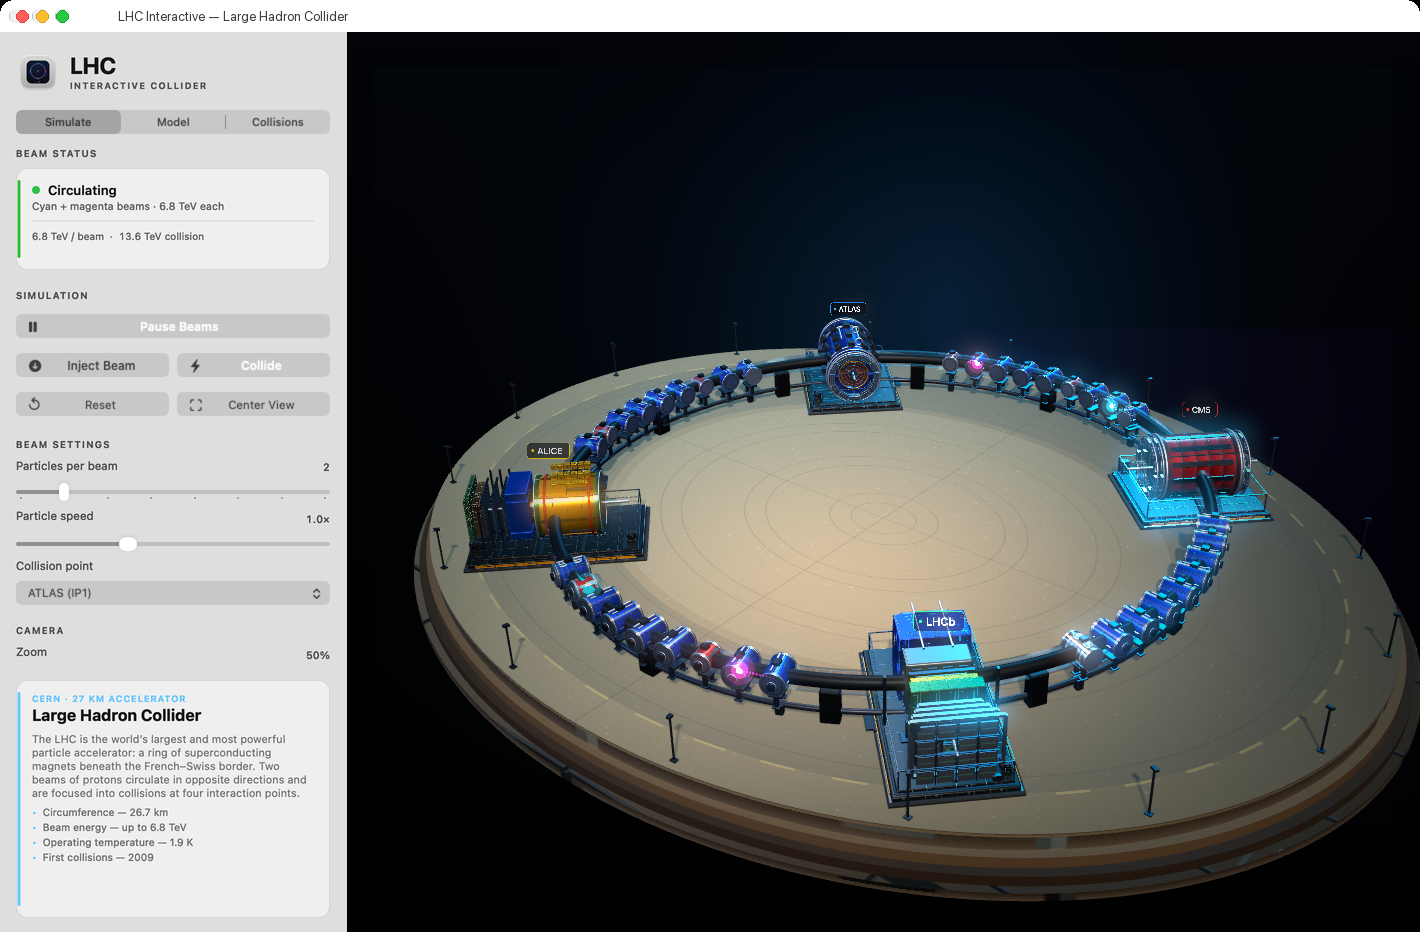
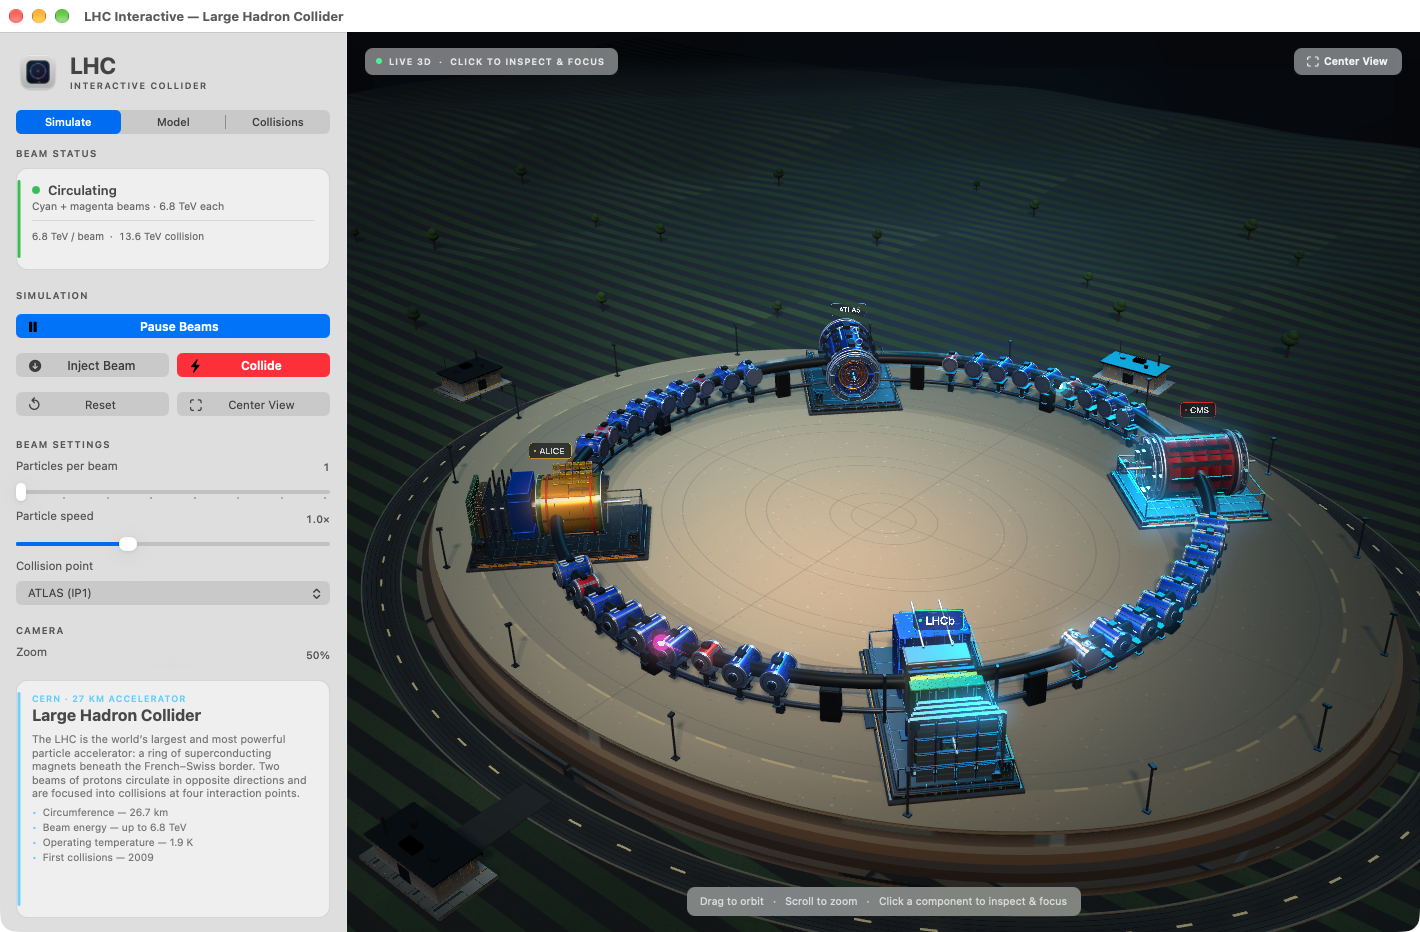
Add realistic site infrastructure around the LHC plateau
- Surround the accelerator plateau with rolling procedural terrain, a
  marked service road with curbs, four service buildings with rooftop
  plant, rear service doors, and a sparse tree line; all gated behind
  the existing terrain visibility toggle.
- Use dark charcoal Lambert roofs so service buildings no longer read
  as glowing cyan panels under the rim light; tone down grass mowing
  bands and enrich terrain/asphalt textures.
- Regenerate docs/screenshot.png (1420x932, active window chrome,
  Center View visible, beams circulating).
- Debug and Release builds succeed; analyzer clean.

diff --git a/LHC/LHCHadronModel.m b/LHC/LHCHadronModel.m
@@ -221,7 +221,7 @@ static NSImage *LHCGrassTexture(void) {
 
             // Mowing bands add a little human-maintained scale to the site.
             for (NSInteger i = 0; i < 12; i++) {
-                [[NSColor colorWithCalibratedWhite:1.0 alpha:0.018] setFill];
+                [[NSColor colorWithCalibratedWhite:1.0 alpha:0.007] setFill];
                 NSRectFill(NSMakeRect(0, (CGFloat)i * 1024.0 / 12.0,
                                      1024, 1024.0 / 24.0));
             }
@@ -707,6 +707,194 @@ static SCNNode *LHCRingSector(CGFloat innerRadius, CGFloat outerRadius,
     return node;
 }
 
+#pragma mark - Site infrastructure
+
+static void LHCAddServiceRoad(SCNNode *terrain) {
+    SCNMaterial *asphalt = [SCNMaterial material];
+    asphalt.lightingModelName = SCNLightingModelPhysicallyBased;
+    asphalt.diffuse.contents = LHCAsphaltTexture();
+    asphalt.roughness.contents = @0.93;
+    asphalt.metalness.contents = @0.03;
+    asphalt.normal.contents = LHCBrushedNormalImage();
+    asphalt.normal.intensity = 0.12;
+    asphalt.normal.wrapS = SCNWrapModeRepeat;
+    asphalt.normal.wrapT = SCNWrapModeRepeat;
+    asphalt.normal.maxAnisotropy = 8.0;
+    asphalt.doubleSided = YES;
+
+    SCNGeometry *roadGeometry = LHCAnnulusGeometry(LHCSiteRoadInnerRadius,
+                                                   LHCSiteRoadOuterRadius,
+                                                   0.012,
+                                                   asphalt);
+    SCNNode *road = [SCNNode nodeWithGeometry:roadGeometry];
+    road.position = SCNVector3Make(0, LHCSiteBaseY, 0);
+    road.name = @"part.terrain.road";
+    road.castsShadow = NO;
+    [terrain addChildNode:road];
+
+    SCNMaterial *curb = LHCPBRMaterial(LHCColor(0.43, 0.42, 0.37), 0.88, 0.0);
+    for (NSNumber *radius in @[@(LHCSiteRoadInnerRadius - 0.05),
+                                @(LHCSiteRoadOuterRadius + 0.05)]) {
+        SCNNode *edge = LHCTorus(radius.doubleValue, 0.028, curb,
+                                 SCNVector3Make(0, LHCSiteBaseY + 0.018, 0), NO);
+        edge.castsShadow = NO;
+        [terrain addChildNode:edge];
+    }
+
+    SCNMaterial *marking = LHCPBRMaterial(LHCColor(0.76, 0.70, 0.52), 0.72, 0.0);
+    marking.emission.contents = LHCColor(0.90, 0.75, 0.40);
+    marking.emission.intensity = 0.16;
+    const CGFloat laneRadius = (LHCSiteRoadInnerRadius + LHCSiteRoadOuterRadius) * 0.5;
+    for (NSInteger i = 0; i < 72; i++) {
+        CGFloat angle = (CGFloat)i / 72.0 * M_PI * 2.0;
+        SCNNode *dash = LHCBox(SCNVector3Make(0.055, 0.012, 0.34), 0.002, marking,
+                               SCNVector3Make(cos(angle) * laneRadius,
+                                              LHCSiteBaseY + 0.026,
+                                              sin(angle) * laneRadius));
+        dash.eulerAngles = SCNVector3Make(0, -angle, 0);
+        dash.castsShadow = NO;
+        [terrain addChildNode:dash];
+    }
+}
+
+static void LHCAddServiceBuilding(SCNNode *terrain, CGFloat angle) {
+    const CGFloat radius = 17.7;
+    CGFloat x = cos(angle) * radius;
+    CGFloat z = sin(angle) * radius;
+
+    SCNNode *root = [SCNNode node];
+    root.name = @"part.terrain.building";
+    root.position = SCNVector3Make(x, LHCSiteBaseY + LHCSiteHeight(x, z), z);
+    // Local +Z points toward the accelerator ring, so the entrance and path
+    // face the service road rather than the empty outside of the site.
+    root.eulerAngles = SCNVector3Make(0, -angle - M_PI_2, 0);
+    [terrain addChildNode:root];
+
+    SCNMaterial *concrete = LHCPanelMaterial(LHCColor(0.44, 0.43, 0.39),
+                                              LHCColor(0.16, 0.18, 0.19), 0.91, 0.0);
+    SCNMaterial *roof = [SCNMaterial material];
+    // A dark, unlit roof reads as tar/bitumen and avoids the blue rim light
+    // turning every horizontal service roof into a glowing cyan panel.
+    roof.lightingModelName = SCNLightingModelConstant;
+    roof.diffuse.contents = LHCColor(0.0, 0.0, 0.0);
+    SCNMaterial *darkMetal = LHCPBRMaterial(LHCColor(0.09, 0.11, 0.13), 0.44, 0.62);
+    SCNMaterial *window = LHCEmissiveMaterial(LHCColor(1.0, 0.72, 0.35), 1.15);
+    SCNMaterial *warning = LHCPBRMaterial(LHCColor(0.78, 0.58, 0.12), 0.68, 0.0);
+    SCNMaterial *pathMaterial = LHCPBRMaterial(LHCColor(0.18, 0.19, 0.19), 0.94, 0.02);
+
+    [root addChildNode:LHCBox(SCNVector3Make(2.55, 0.10, 1.65), 0.025, concrete,
+                              SCNVector3Make(0, 0.05, 0))];
+    [root addChildNode:LHCBox(SCNVector3Make(1.95, 0.62, 1.18), 0.030, concrete,
+                              SCNVector3Make(0, 0.40, 0))];
+    [root addChildNode:LHCBox(SCNVector3Make(2.12, 0.07, 1.34), 0.020, roof,
+                              SCNVector3Make(0, 0.735, 0))];
+    [root addChildNode:LHCBox(SCNVector3Make(2.16, 0.025, 1.38), 0.010, darkMetal,
+                              SCNVector3Make(0, 0.775, 0))];
+
+    // Recessed entrance and a warm wall lamp.
+    [root addChildNode:LHCBox(SCNVector3Make(0.34, 0.42, 0.025), 0.006, darkMetal,
+                              SCNVector3Make(0, 0.29, 0.596))];
+    [root addChildNode:LHCBox(SCNVector3Make(0.40, 0.46, 0.018), 0.005, roof,
+                              SCNVector3Make(0, 0.30, 0.584))];
+    [root addChildNode:LHCBox(SCNVector3Make(0.15, 0.035, 0.03), 0.004, window,
+                              SCNVector3Make(0, 0.56, 0.598))];
+
+    for (NSNumber *offset in @[@(-0.62), @(0.62)]) {
+        [root addChildNode:LHCBox(SCNVector3Make(0.38, 0.15, 0.020), 0.004, window,
+                                  SCNVector3Make(offset.doubleValue, 0.47, 0.596))];
+        [root addChildNode:LHCBox(SCNVector3Make(0.32, 0.15, 0.020), 0.004, window,
+                                  SCNVector3Make(offset.doubleValue, 0.47, -0.596))];
+        [root addChildNode:LHCBox(SCNVector3Make(0.020, 0.15, 0.34), 0.004, window,
+                                  SCNVector3Make(0.986, 0.47, offset.doubleValue * 0.5))];
+        [root addChildNode:LHCBox(SCNVector3Make(0.020, 0.15, 0.34), 0.004, window,
+                                  SCNVector3Make(-0.986, 0.47, offset.doubleValue * 0.5))];
+    }
+
+    // A rear service door and lamp keep the building from becoming a dark
+    // silhouette when the camera orbits behind it.
+    [root addChildNode:LHCBox(SCNVector3Make(0.34, 0.42, 0.025), 0.006, darkMetal,
+                              SCNVector3Make(0, 0.29, -0.596))];
+    [root addChildNode:LHCBox(SCNVector3Make(0.15, 0.035, 0.03), 0.004, window,
+                              SCNVector3Make(0, 0.56, -0.598))];
+
+    // Rooftop plant gives the buildings a believable industrial silhouette.
+    [root addChildNode:LHCCylinder(0.10, 0.14, darkMetal,
+                                   SCNVector3Make(-0.55, 0.80, -0.15), NO)];
+    [root addChildNode:LHCCylinder(0.075, 0.22, darkMetal,
+                                   SCNVector3Make(0.47, 0.84, 0.18), NO)];
+    [root addChildNode:LHCBox(SCNVector3Make(0.42, 0.16, 0.32), 0.012, roof,
+                              SCNVector3Make(0.05, 0.82, -0.25))];
+    [root addChildNode:LHCCylinder(0.035, 0.52, darkMetal,
+                                   SCNVector3Make(0.72, 1.01, -0.36), NO)];
+    [root addChildNode:LHCCylinder(0.012, 0.58, darkMetal,
+                                   SCNVector3Make(-0.78, 1.11, -0.42), NO)];
+
+    // Paved approach connects each building to the ring road.
+    [root addChildNode:LHCBox(SCNVector3Make(0.85, 0.025, 2.80), 0.010, pathMaterial,
+                              SCNVector3Make(0, 0.03, 1.85))];
+    [root addChildNode:LHCBox(SCNVector3Make(1.95, 0.025, 0.06), 0.002, warning,
+                              SCNVector3Make(0, 0.105, 0.605))];
+    for (NSNumber *offset in @[@(-0.55), @(0.55)]) {
+        [root addChildNode:LHCCylinder(0.028, 0.18, darkMetal,
+                                       SCNVector3Make(offset.doubleValue, 0.11, 1.02), NO)];
+    }
+}
+
+static void LHCAddSiteTrees(SCNNode *terrain) {
+    SCNMaterial *trunk = LHCPBRMaterial(LHCColor(0.22, 0.15, 0.09), 0.96, 0.0);
+    NSArray<SCNMaterial *> *canopies = @[
+        LHCPBRMaterial(LHCColor(0.12, 0.26, 0.13), 0.94, 0.0),
+        LHCPBRMaterial(LHCColor(0.16, 0.30, 0.15), 0.92, 0.0),
+        LHCPBRMaterial(LHCColor(0.20, 0.34, 0.17), 0.95, 0.0)
+    ];
+
+    for (NSInteger i = 0; i < 64; i++) {
+        CGFloat angle = (CGFloat)i * 2.3999632297 + 0.35;
+        CGFloat radius = 19.5 + (CGFloat)((i * 17) % 23);
+
+        BOOL nearBuilding = NO;
+        for (NSInteger building = 0; building < 4; building++) {
+            CGFloat buildingAngle = (CGFloat)building * M_PI_2;
+            CGFloat delta = fabs(atan2(sin(angle - buildingAngle), cos(angle - buildingAngle)));
+            if (radius < 23.5 && delta < 0.32) {
+                nearBuilding = YES;
+                break;
+            }
+        }
+        if (nearBuilding) {
+            continue;
+        }
+
+        CGFloat x = cos(angle) * radius;
+        CGFloat z = sin(angle) * radius;
+        CGFloat scale = 0.78 + (CGFloat)((i * 11) % 9) / 9.0 * 0.70;
+        SCNNode *tree = [SCNNode node];
+        tree.name = @"part.terrain.tree";
+        tree.position = SCNVector3Make(x, LHCSiteBaseY + LHCSiteHeight(x, z), z);
+        tree.castsShadow = YES;
+
+        [tree addChildNode:LHCCylinder(0.035 * scale, 0.50 * scale, trunk,
+                                       SCNVector3Make(0, 0.25 * scale, 0), NO)];
+
+        SCNMaterial *canopyMaterial = canopies[(NSUInteger)(i % 3)];
+        SCNSphere *crown = [SCNSphere sphereWithRadius:0.23 * scale];
+        crown.segmentCount = 16;
+        SCNNode *crownNode = LHCGeometryNode(crown, canopyMaterial,
+                                             SCNVector3Make(0, 0.59 * scale, 0));
+        crownNode.scale = SCNVector3Make(1.0, 0.86, 1.0);
+        [tree addChildNode:crownNode];
+
+        SCNSphere *upperCrown = [SCNSphere sphereWithRadius:0.16 * scale];
+        upperCrown.segmentCount = 14;
+        SCNNode *upperNode = LHCGeometryNode(upperCrown, canopyMaterial,
+                                             SCNVector3Make(0.07 * scale, 0.73 * scale,
+                                                            0.04 * scale));
+        [tree addChildNode:upperNode];
+
+        [terrain addChildNode:tree];
+    }
+}
+
 #pragma mark - Model
 
 @interface LHCHadronModel ()
@@ -935,6 +1123,35 @@ static SCNNode *LHCRingSector(CGFloat innerRadius, CGFloat outerRadius,
     [terrain addChildNode:soil4];
 
     terrain.scale = SCNVector3Make(1.16, 1.0, 0.93);
+
+    // The accelerator sits on a raised survey plateau; the surrounding site
+    // grounds it with rolling terrain, a service road, plant buildings and a
+    // sparse tree line. Everything is procedural and shares the terrain node's
+    // visibility toggle.
+    SCNMaterial *grassMaterial = [SCNMaterial material];
+    grassMaterial.lightingModelName = SCNLightingModelPhysicallyBased;
+    grassMaterial.diffuse.contents = LHCGrassTexture();
+    grassMaterial.diffuse.wrapS = SCNWrapModeRepeat;
+    grassMaterial.diffuse.wrapT = SCNWrapModeRepeat;
+    grassMaterial.roughness.contents = @0.96;
+    grassMaterial.metalness.contents = @0.0;
+    grassMaterial.normal.contents = LHCBrushedNormalImage();
+    grassMaterial.normal.intensity = 0.10;
+    grassMaterial.normal.wrapS = SCNWrapModeRepeat;
+    grassMaterial.normal.wrapT = SCNWrapModeRepeat;
+    grassMaterial.normal.maxAnisotropy = 8.0;
+
+    SCNNode *siteGround = [SCNNode nodeWithGeometry:LHCSiteGroundGeometry(grassMaterial)];
+    siteGround.name = @"part.terrain.site";
+    siteGround.position = SCNVector3Make(0, LHCSiteBaseY, 0);
+    siteGround.castsShadow = NO;
+    [terrain addChildNode:siteGround];
+
+    LHCAddServiceRoad(terrain);
+    for (NSInteger i = 0; i < 4; i++) {
+        LHCAddServiceBuilding(terrain, (CGFloat)i * M_PI_2);
+    }
+    LHCAddSiteTrees(terrain);
 
     // Faint illuminated survey rings laid into the plateau.
     SCNMaterial *surveyMaterial = LHCEmissiveMaterial(LHCColor(0.30, 0.78, 1.0), 0.45);

diff --git a/README.md b/README.md
@@ -2,7 +2,7 @@
 
 A native macOS application that turns the Large Hadron Collider into an explorable SceneKit model. Built with Objective-C, AppKit and SceneKit, it combines an interactive 27 km accelerator ring with a configurable particle-collision simulator and an educational component inspector.
 
-![LHC Interactive screenshot](docs/screenshot.png)
+![LHC Interactive screenshot](preview.png)
 
 ## Highlights
 
